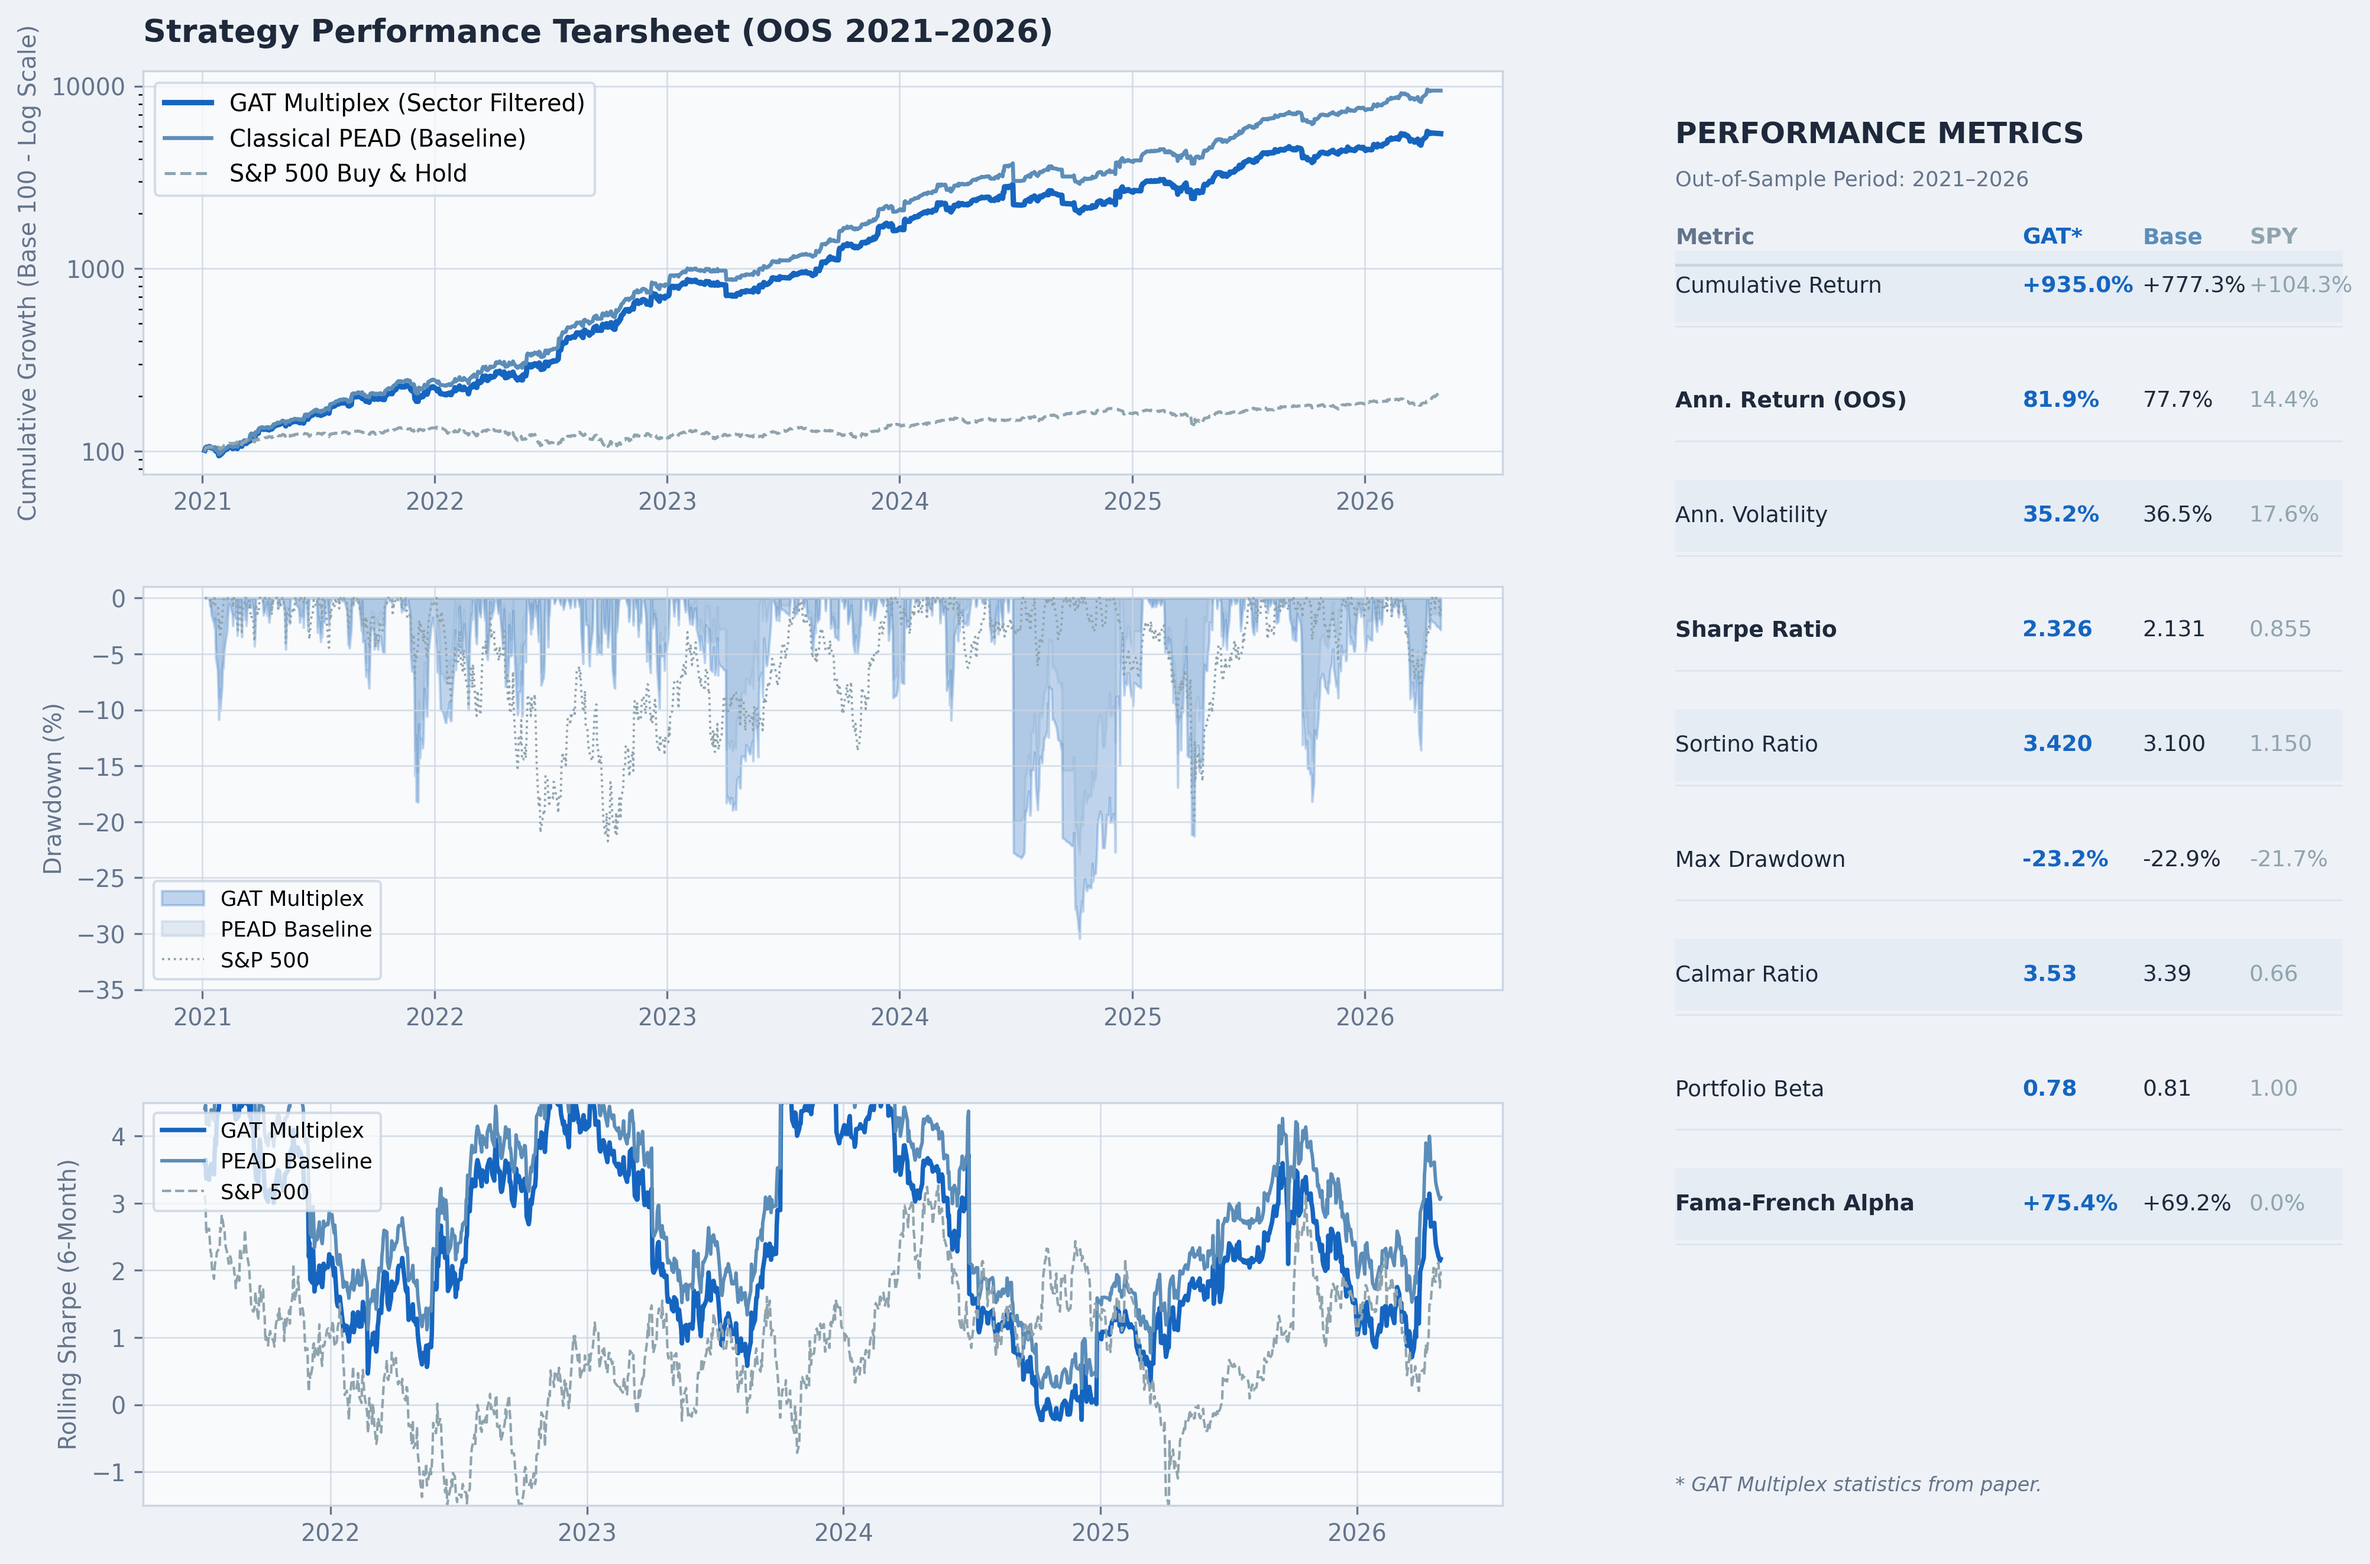
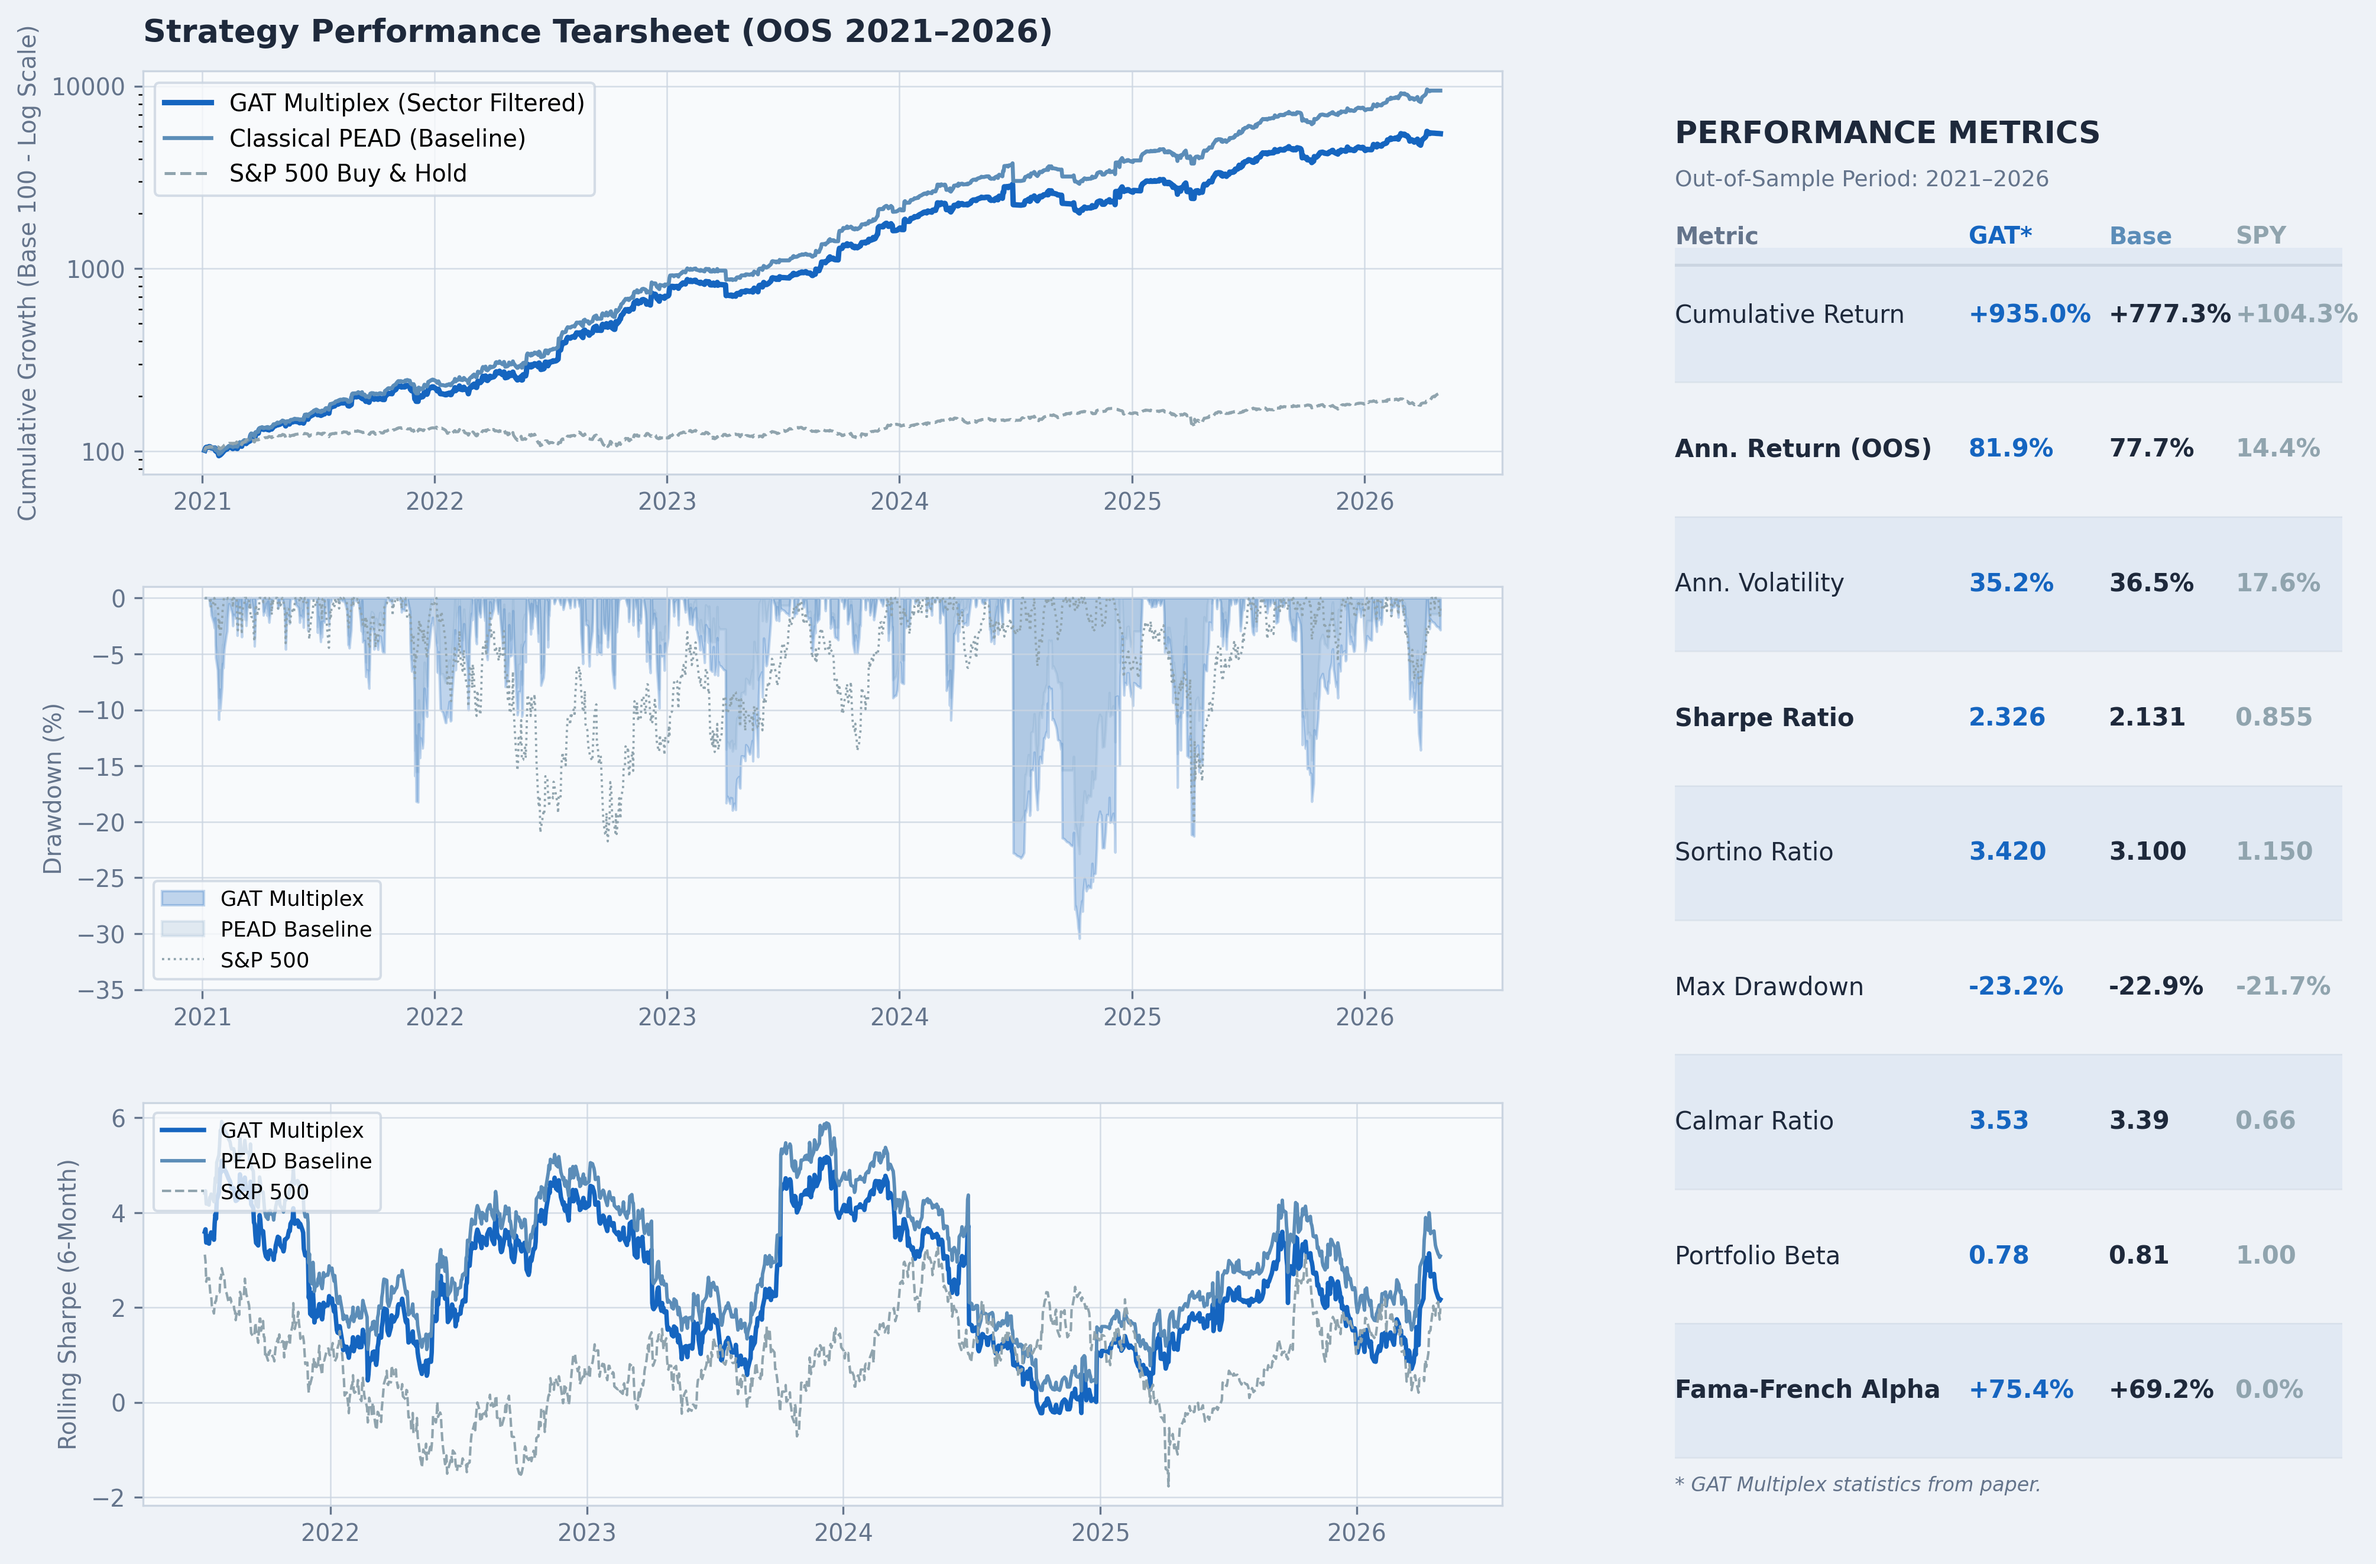
style: fix rolling sharpe clipping and enhance performance metrics table legibility

diff --git a/backtest/generate_tearsheet.py b/backtest/generate_tearsheet.py
@@ -220,27 +220,20 @@ def main():
     ax_roll.plot(roll_sharpe_bh.index, roll_sharpe_bh.values, color=COLOR_BH, lw=1.0, ls="--", label="S&P 500")
     
     ax_roll.set_ylabel("Rolling Sharpe (6-Month)", fontsize=9.5)
-    ax_roll.set_ylim(-1.5, 4.5)
+    
+    # Avoid clipping by dynamically setting ylim based on actual values
+    all_sharpes = pd.concat([roll_sharpe_gat, roll_sharpe_base, roll_sharpe_bh]).dropna()
+    min_s, max_s = all_sharpes.min(), all_sharpes.max()
+    ax_roll.set_ylim(min_s - 0.4, max_s + 0.4)
+    
     ax_roll.legend(loc="upper left", facecolor=SURFACE, edgecolor=BORDER, fontsize=8.5)
 
     # ── 4. Detailed Statistics Table (Right column) ──────────────────────────
     ax_table.axis("off")
     
     # Custom drawn text table for Figma-style quality
-    ax_table.text(0.0, 0.95, "PERFORMANCE METRICS", color=TEXT_PRI, fontsize=12, fontweight="bold")
-    ax_table.text(0.0, 0.92, "Out-of-Sample Period: 2021–2026", color=TEXT_SEC, fontsize=8.5)
-    
-    # Grid details
-    row_y = np.linspace(0.85, 0.05, 11)
-    col_x = [0.0, 0.52, 0.70, 0.86] # Label, GAT, Baseline, B&H
-    
-    # Column headers
-    ax_table.text(col_x[0], 0.88, "Metric", color=TEXT_SEC, fontsize=9, fontweight="bold")
-    ax_table.text(col_x[1], 0.88, "GAT*", color=COLOR_GAT, fontsize=9, fontweight="bold", ha="left")
-    ax_table.text(col_x[2], 0.88, "Base", color=COLOR_BASE, fontsize=9, fontweight="bold", ha="left")
-    ax_table.text(col_x[3], 0.88, "SPY", color=COLOR_BH, fontsize=9, fontweight="bold", ha="left")
-    
-    ax_table.axhline(0.865, color=BORDER, lw=1.2)
+    ax_table.text(0.0, 0.95, "PERFORMANCE METRICS", color=TEXT_PRI, fontsize=12.5, fontweight="bold")
+    ax_table.text(0.0, 0.92, "Out-of-Sample Period: 2021–2026", color=TEXT_SEC, fontsize=9.0)
     
     metrics_list = [
         ("Cumulative Return", "cum_ret"),
@@ -254,26 +247,39 @@ def main():
         ("Fama-French Alpha", "alpha"),
     ]
     
+    # Grid details - dynamically space the 9 items vertically
+    row_y = np.linspace(0.83, 0.08, len(metrics_list))
+    row_height = (0.83 - 0.08) / (len(metrics_list) - 1)
+    col_x = [0.0, 0.44, 0.65, 0.84] # Label, GAT, Baseline, B&H
+    
+    # Column headers
+    ax_table.text(col_x[0], 0.88, "Metric", color=TEXT_SEC, fontsize=9.5, fontweight="bold")
+    ax_table.text(col_x[1], 0.88, "GAT*", color=COLOR_GAT, fontsize=9.5, fontweight="bold", ha="left")
+    ax_table.text(col_x[2], 0.88, "Base", color=COLOR_BASE, fontsize=9.5, fontweight="bold", ha="left")
+    ax_table.text(col_x[3], 0.88, "SPY", color=COLOR_BH, fontsize=9.5, fontweight="bold", ha="left")
+    
+    ax_table.axhline(0.865, color=BORDER, lw=1.2)
+    
     for i, (label, key) in enumerate(metrics_list):
         y_coord = row_y[i]
         
         # Row shading
-        bg_alpha = 0.04 if i % 2 == 0 else 0.0
-        rect = plt.Rectangle((0, y_coord-0.025), 1.0, 0.05, transform=ax_table.transAxes,
+        bg_alpha = 0.06 if i % 2 == 0 else 0.0
+        rect = plt.Rectangle((0, y_coord - row_height/2.0), 1.0, row_height, transform=ax_table.transAxes,
                              facecolor=COLOR_GAT if bg_alpha > 0 else "none", alpha=bg_alpha, zorder=0)
         ax_table.add_patch(rect)
         
-        # Text values
+        # Text values - make numbers bold for GAT, Base, and SPY to stand out
         is_highlight = label in ["Sharpe Ratio", "Ann. Return (OOS)", "Fama-French Alpha"]
-        font_weight = "bold" if is_highlight else "normal"
+        label_weight = "bold" if is_highlight else "normal"
         
-        ax_table.text(col_x[0], y_coord, label, color=TEXT_PRI, fontsize=9.0, fontweight=font_weight, va="center")
-        ax_table.text(col_x[1], y_coord, stats_gat[key], color=COLOR_GAT, fontsize=9.0, fontweight="bold", ha="left", va="center")
-        ax_table.text(col_x[2], y_coord, stats_base[key], color=TEXT_PRI, fontsize=9.0, ha="left", va="center")
-        ax_table.text(col_x[3], y_coord, stats_bh[key], color=COLOR_BH, fontsize=9.0, ha="left", va="center")
+        ax_table.text(col_x[0], y_coord, label, color=TEXT_PRI, fontsize=10.0, fontweight=label_weight, va="center")
+        ax_table.text(col_x[1], y_coord, stats_gat[key], color=COLOR_GAT, fontsize=10.0, fontweight="bold", ha="left", va="center")
+        ax_table.text(col_x[2], y_coord, stats_base[key], color=TEXT_PRI, fontsize=10.0, fontweight="bold", ha="left", va="center")
+        ax_table.text(col_x[3], y_coord, stats_bh[key], color=COLOR_BH, fontsize=10.0, fontweight="bold", ha="left", va="center")
         
         # Subtle horizontal divider
-        ax_table.axhline(y_coord - 0.028, color=BORDER, lw=0.6, alpha=0.5)
+        ax_table.axhline(y_coord - row_height/2.0, color=BORDER, lw=0.6, alpha=0.5)
         
     # Table footnote
     ax_table.text(0.0, 0.01, "* GAT Multiplex statistics from paper.", color=TEXT_SEC, fontsize=8, style="italic")
